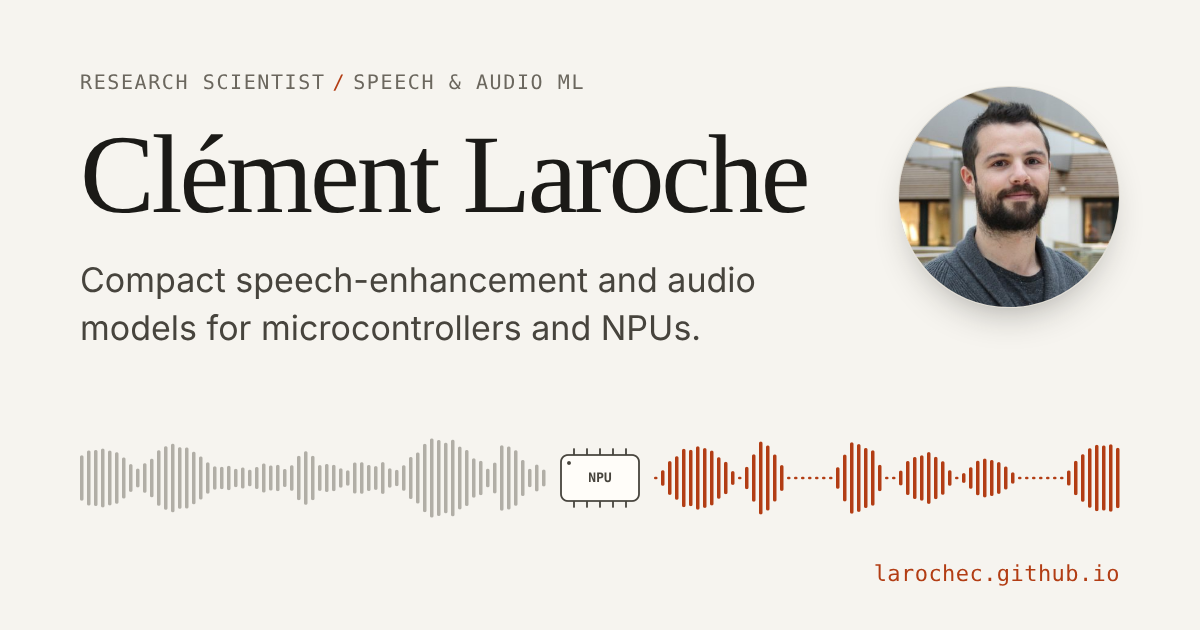
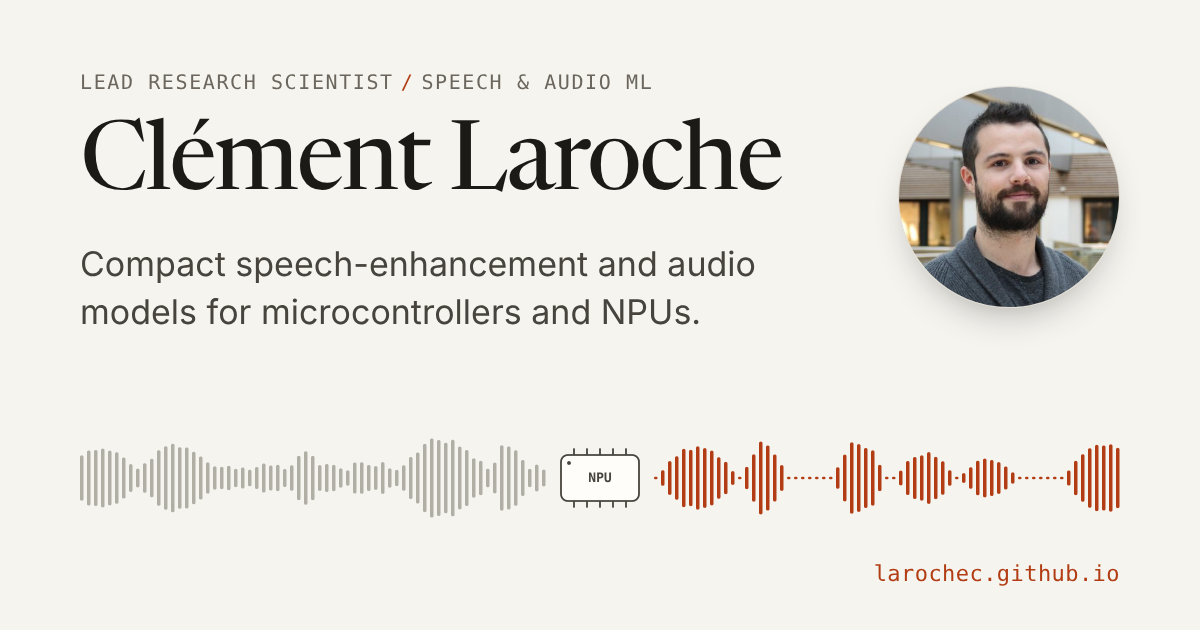
Update title to Lead Research Scientist; fix the preview card's typeface
- Hero eyebrow, About paragraph and meta description now say
  "Lead Research Scientist".
- Structured data (JSON-LD Person) gains jobTitle and worksFor
  (Jabra / GN Audio, as shown on the Google Scholar profile).
- og-card.png re-rendered with the new title. The previous card had
  silently fallen back to a generic serif: its template loaded the
  font cross-origin, which browsers block. The template now inlines
  the font, and the name is set at 96px so it clears the portrait.

Changed region(s): [[0.0617, 0.181, 0.6783, 0.3619], [0.0617, 0.3921, 0.6475, 0.5429], [0.0617, 0.1206, 0.555, 0.1508]]

diff --git a/index.html b/index.html
@@ -4,7 +4,7 @@
 <meta charset="utf-8">
 <meta name="viewport" content="width=device-width, initial-scale=1">
 <title>Clément Laroche — speech &amp; audio ML on the edge</title>
-<meta name="description" content="Research scientist building compact speech-enhancement and audio models for microcontrollers and NPUs — and the tools to measure how they sound.">
+<meta name="description" content="Lead research scientist building compact speech-enhancement and audio models for microcontrollers and NPUs — and the tools to measure how they sound.">
 <meta name="author" content="Clément Laroche">
 <link rel="canonical" href="https://larochec.github.io/">
 <meta name="color-scheme" content="light dark">
@@ -46,6 +46,8 @@
   "name": "Clément Laroche",
   "url": "https://larochec.github.io/",
   "image": "https://larochec.github.io/assets/img/portrait.jpg",
+  "jobTitle": "Lead Research Scientist",
+  "worksFor": { "@type": "Organization", "name": "Jabra (GN Audio)" },
   "sameAs": [
     "https://github.com/LarocheC",
     "https://huggingface.co/claroche1",
@@ -464,7 +466,7 @@
     <div class="wrap">
       <div class="hero-grid">
         <div class="hero-text">
-          <p class="eyebrow">Research scientist<span class="sep" aria-hidden="true">/</span>Speech &amp; audio ML</p>
+          <p class="eyebrow">Lead Research Scientist<span class="sep" aria-hidden="true">/</span>Speech &amp; audio ML</p>
           <h1 id="name">Clément Laroche</h1>
           <p class="lede">I make speech-enhancement and audio models small enough to run on microcontrollers and NPUs — and build the tools to check that they still sound good.</p>
           <ul class="profile-links">
@@ -523,7 +525,7 @@
       </header>
       <div class="about-grid">
         <div class="prose">
-          <p>I’m a research scientist at Jabra (GN Audio) in Copenhagen, working on speech enhancement for hearing and audio devices. Most of my work lives in the gap between a model that works in PyTorch and one that runs in real time on an embedded chip: compact causal architectures, quantization-aware training down to int8 and int4, structured weight matrices, and deployment on microcontroller NPUs.</p>
+          <p>I’m a Lead Research Scientist at Jabra (GN Audio) in Copenhagen, working on speech enhancement for hearing and audio devices. Most of my work lives in the gap between a model that works in PyTorch and one that runs in real time on an embedded chip: compact causal architectures, quantization-aware training down to int8 and int4, structured weight matrices, and deployment on microcontroller NPUs.</p>
           <p>Structure is the thread that runs through it. My PhD, at Télécom ParisTech and the Laboratoire des Signaux et Systèmes, was on music source separation with structured non-negative matrix factorization — teasing drums apart from harmony. Today the factorizations are butterfly and Monarch matrices, and the goal is speech models cheap enough for a microcontroller.</p>
           <p>I care just as much about measurement. I’ve written a GPU implementation of the PESQ loss, turned DNSMOS into a differentiable loss that runs on-device, and fine-tuned an audio LLM to explain what’s wrong with a recording. Code and models are open whenever I can make them so.</p>
         </div>
